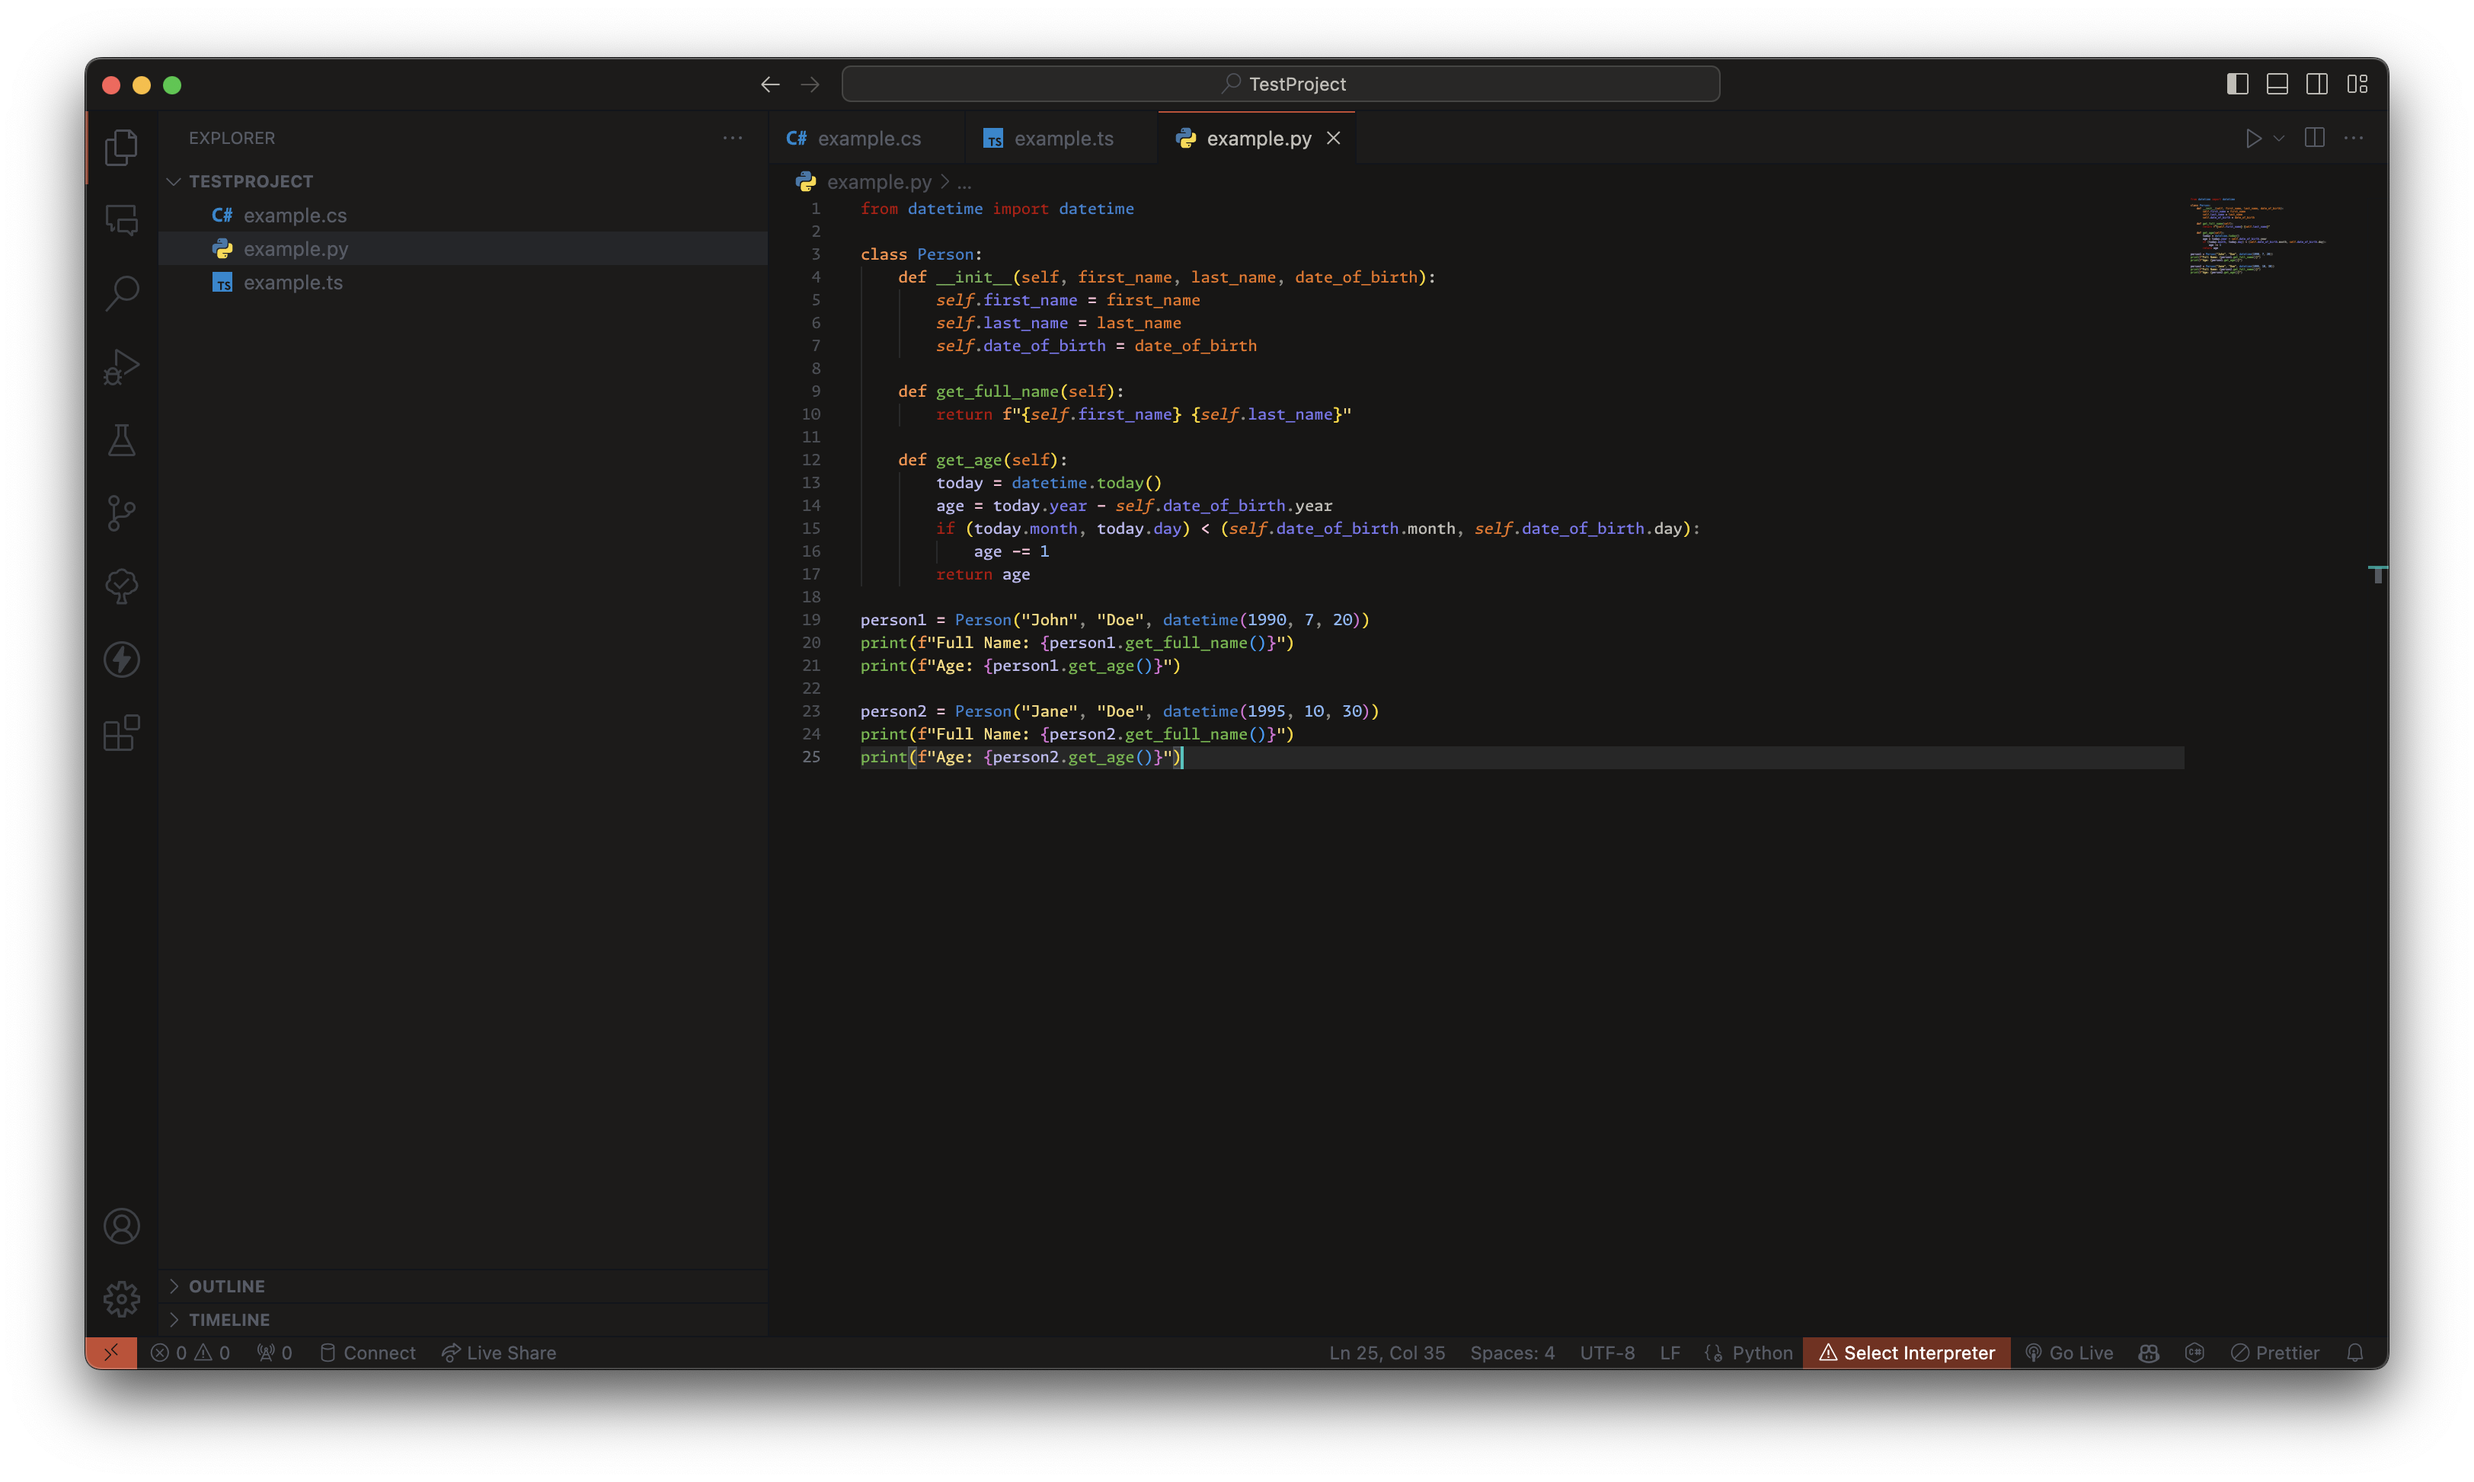
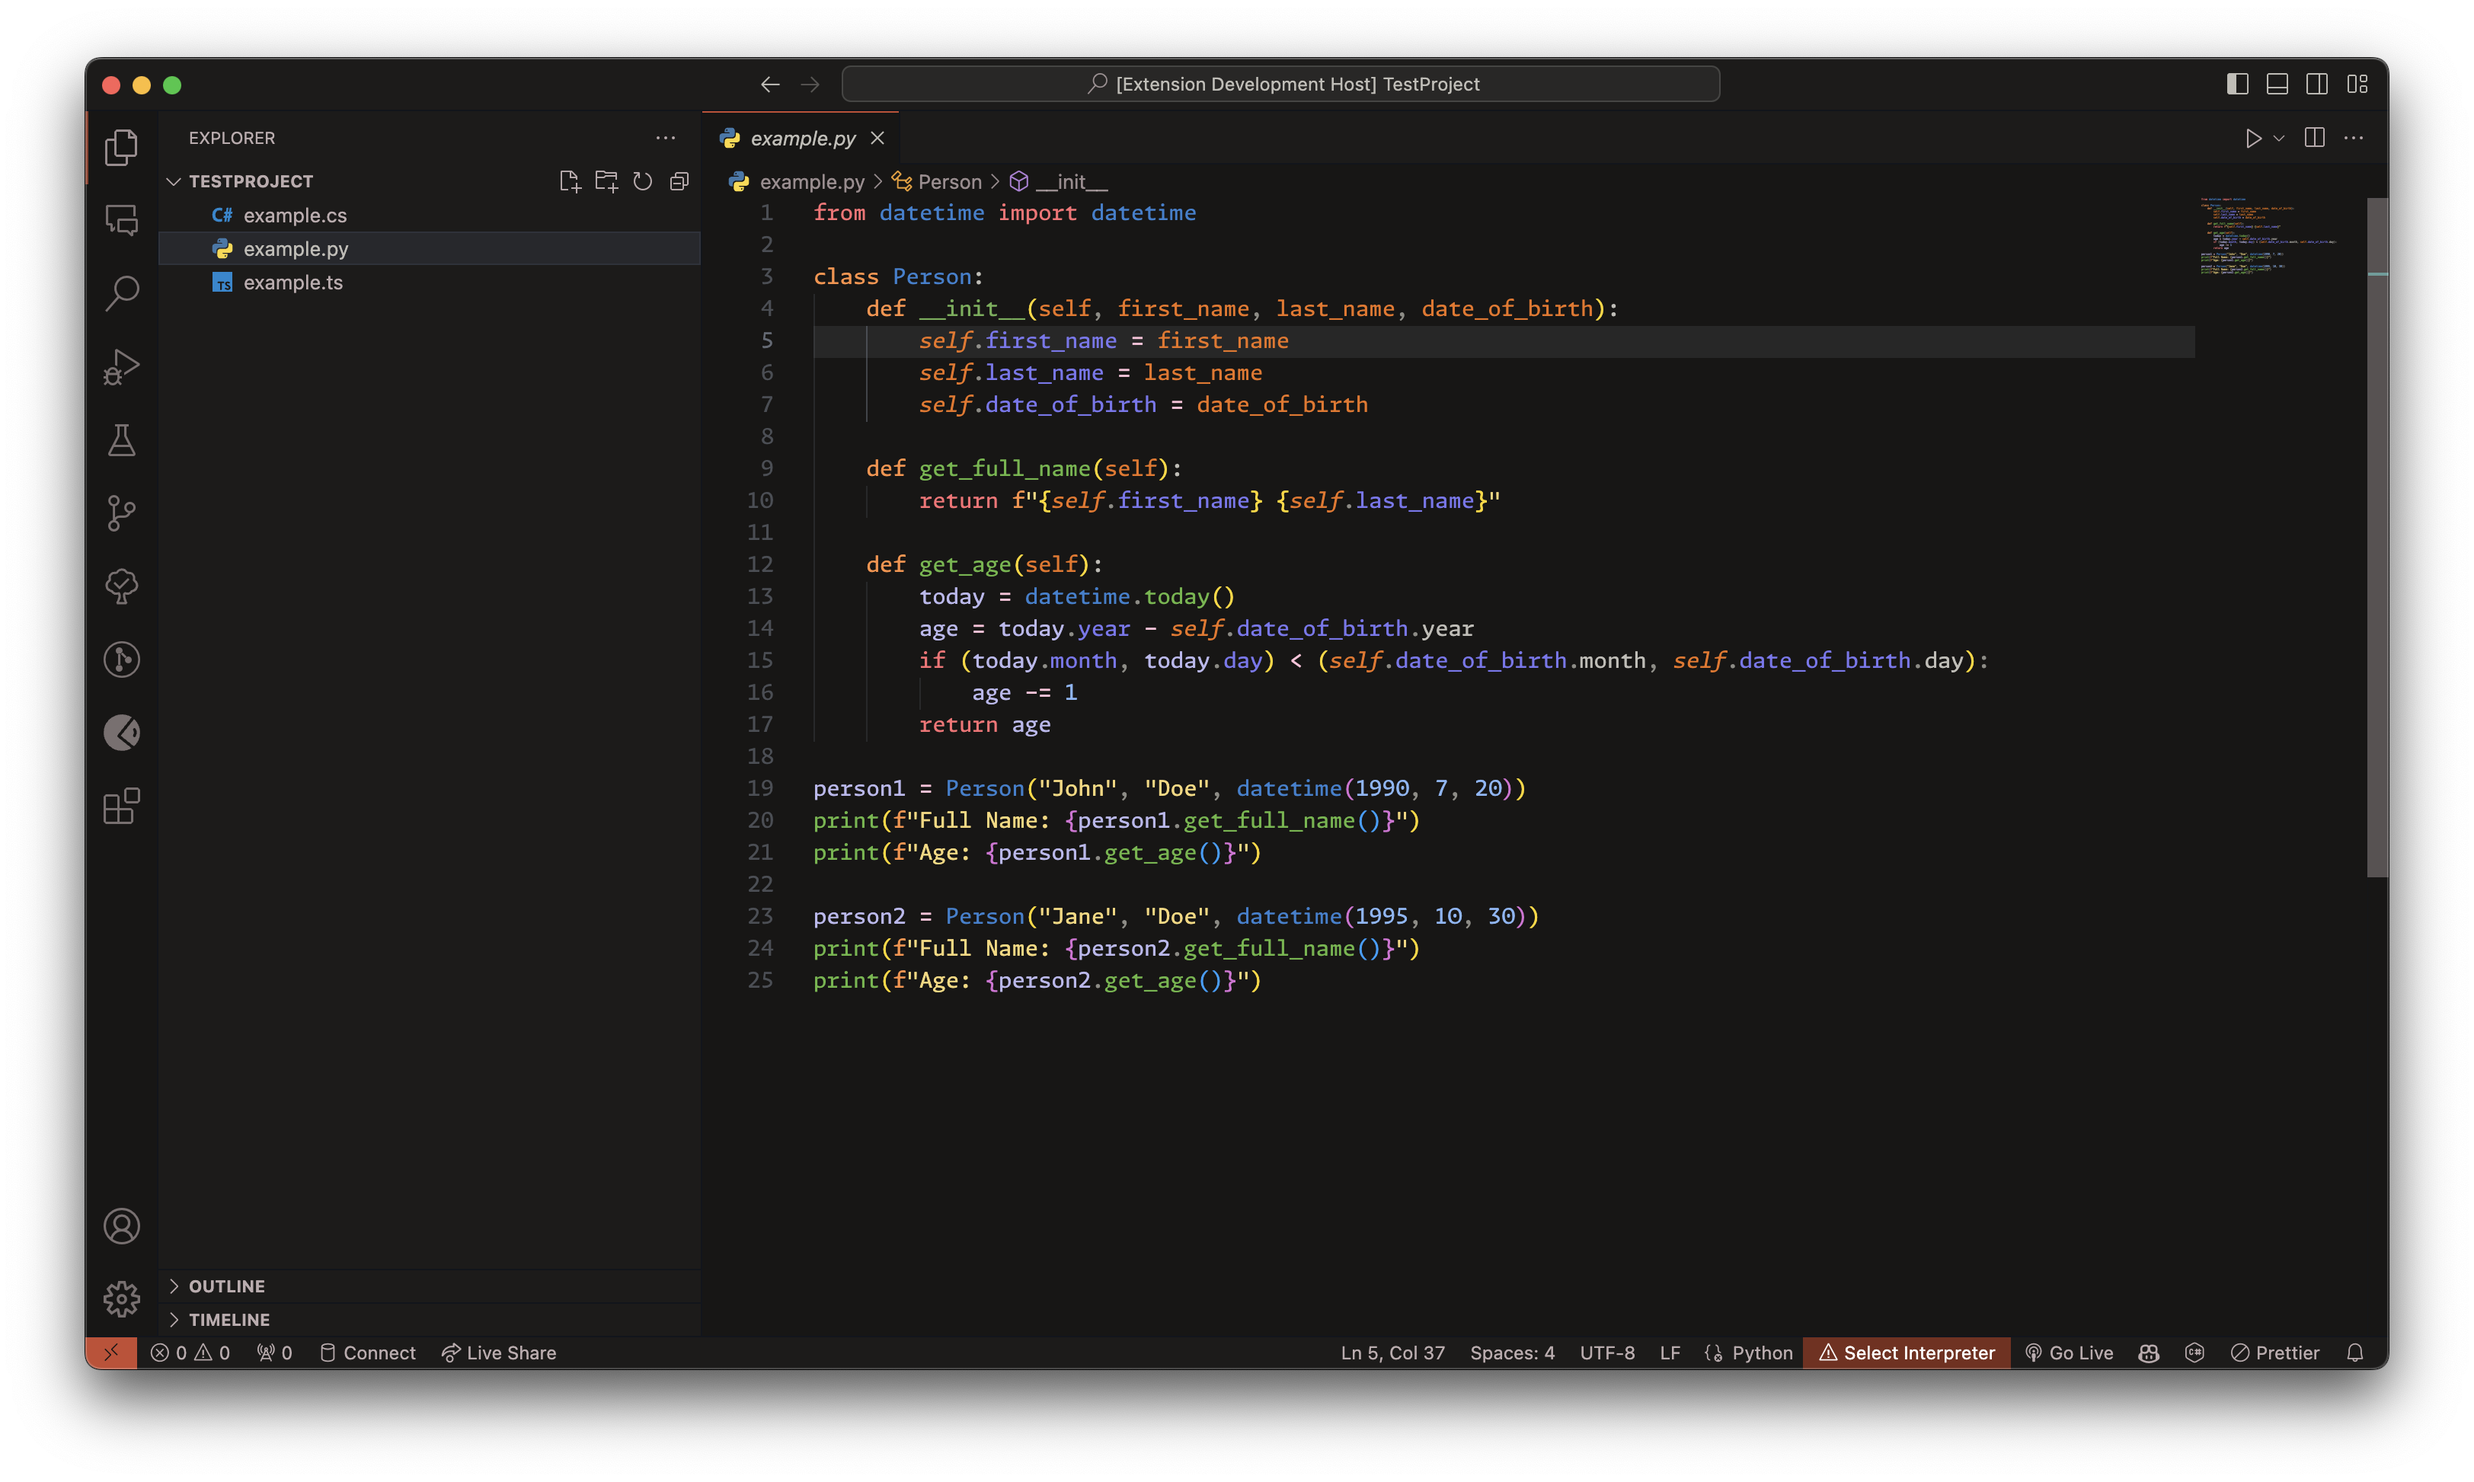
Update theme colors and version

diff --git a/CHANGELOG.md b/CHANGELOG.md
@@ -5,6 +5,13 @@ All notable changes to the "Obsidian Sunset" extension will be documented in thi
 Check [Keep a Changelog](http://keepachangelog.com/) for recommendations on how to structure this file.
 
 
+## [1.2.0] - 2024-01-08
+
+### Changed
+
+- Color of keywords changed to be less red
+- Main font color and accents changed to be more white to stand out better in light
+
 ## [1.1.1] - 2024-01-07
 
 ### Fixed

diff --git a/README.md b/README.md
@@ -13,4 +13,7 @@ Obsidian Sunset is ideal for developers who prefer a dark theme that is not too 
 ![Screenshot of the theme in TypeScript](images/ts-example.png)
 ![Screenshot of the theme in Python](images/python-example.png)
 
+# Bugs & Suggestions
+Should you encounter any bugs or have suggestions for improvement, we encourage you to open an issue on GitHub.
+
 **Enjoy!**
